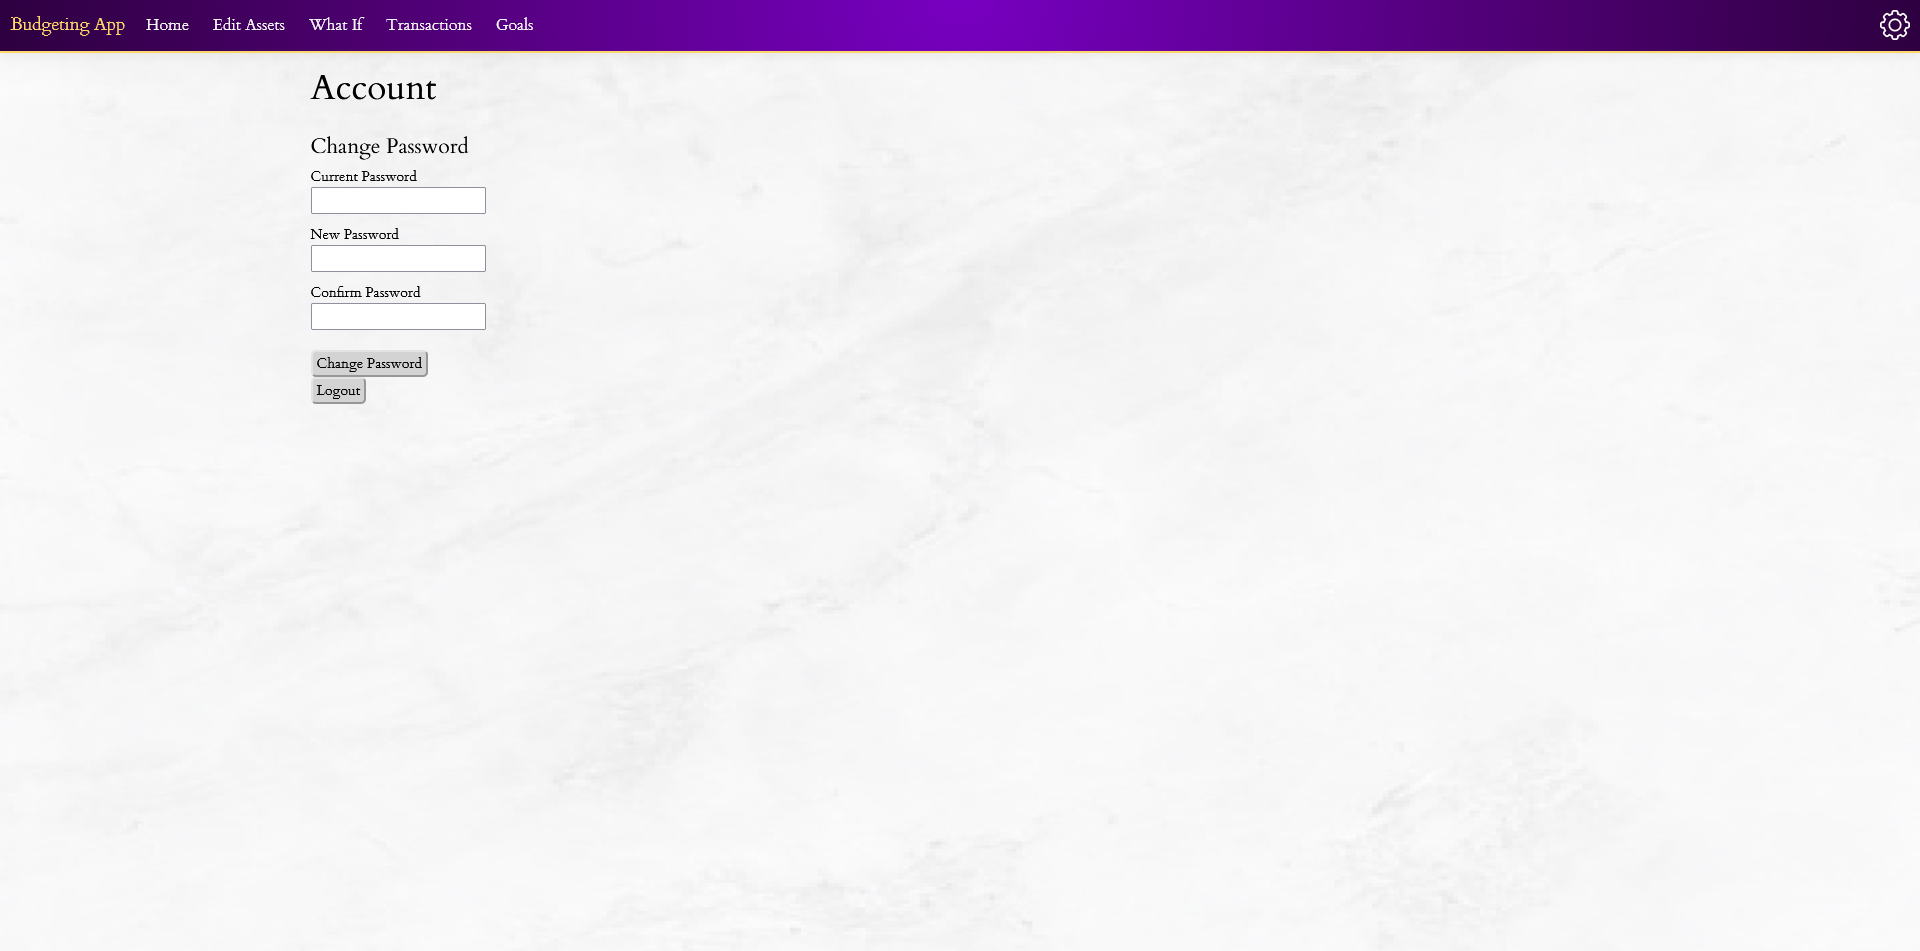
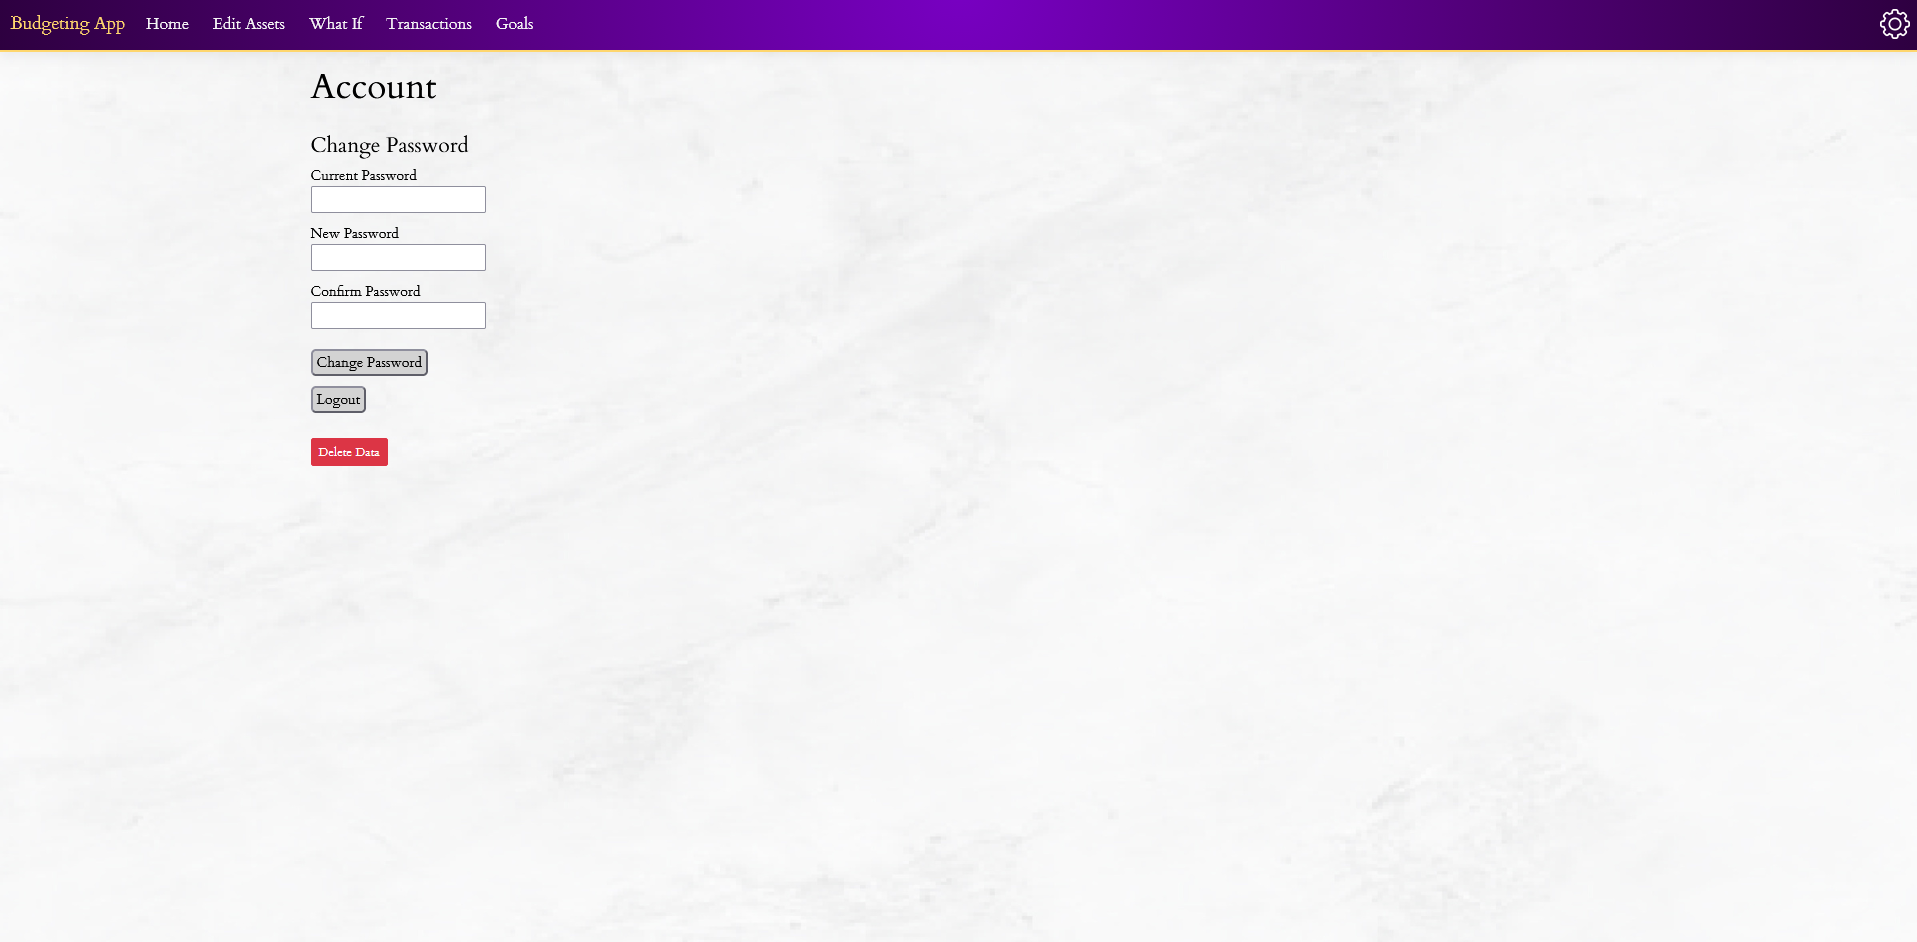
Add "Delete Data" option to Settings.cshtml

diff --git a/BudgetingApp/wwwroot/css/site.css b/BudgetingApp/wwwroot/css/site.css
@@ -388,3 +388,66 @@ body {
     height: 350px;
     width: 750px;
 }
+
+.warning-button {
+    background-color: red;
+}
+
+.logout-container {
+    padding-top: 10px;
+}
+
+.delete-buttons-container {
+    padding-top: 25px;
+}
+
+.modal {
+    display: none;
+    position: fixed;
+    z-index: 9999;
+    left: 0;
+    top: 0;
+    width: 100vw; 
+    height: 100vh; 
+    background-color: rgba(0, 0, 0, 0.6) !important; 
+    overflow: hidden; 
+}
+.modal-content {
+    background-color: white;
+    position: relative;
+    top: 50%; 
+    left: 50%; 
+    transform: translate(-50%, -50%); 
+    padding: 30px;
+    border: 1px solid #888;
+    width: 90%;
+    max-width: 500px; 
+    border-radius: 12px;
+    box-shadow: 0 0 15px #fed66d;
+    display: flex;
+}
+
+.close {
+    color: #aaa;
+    float: right;
+    font-size: 28px;
+    font-weight: bold;
+}
+
+    .close:hover, .close:focus {
+        color: black;
+        text-decoration: none;
+        cursor: pointer;
+    }
+
+.modal-text {
+    text-align: center;
+    font-weight: bold;
+}
+
+.modal-buttons-container {
+    display: flex;
+    gap: 150px;
+    justify-content: center
+}
+

diff --git a/BudgetingApp/Controllers/HomeController.cs b/BudgetingApp/Controllers/HomeController.cs
@@ -796,5 +796,77 @@ namespace BudgetingApp.Controllers
 
             return RedirectToAction("Goals");
         }
+
+        /// <summary>
+        /// Batch deletes all of the user's transactions and goals and resets all of their expenses to 0
+        /// </summary>
+        /// <returns>The Settings view</returns>
+        [HttpPost]
+        public async Task<IActionResult> DeleteData()
+        {
+            // Determine who is currently logged in
+            string currentUser = HttpContext.Session.GetString("Username");
+
+            // Redirect to the login page if the user is not signed in
+            if (string.IsNullOrEmpty(currentUser))
+                return RedirectToAction("Login", "Auth");
+
+            // Attempt to delete data
+            try
+            {
+                WriteBatch batch = _firestoreDb.StartBatch();
+
+                // Get and delete all transactions
+                Query transQuery = _firestoreDb.Collection(_transactionsCollection).WhereEqualTo("username", currentUser);
+                QuerySnapshot transSnapshot = await transQuery.GetSnapshotAsync();
+                foreach (DocumentSnapshot doc in transSnapshot.Documents)
+                {
+                    batch.Delete(doc.Reference);
+                }
+
+                // Get and delete all goals
+                Query goalQuery = _firestoreDb.Collection(_goalsCollection).WhereEqualTo("username", currentUser);
+                QuerySnapshot goalSnapshot = await goalQuery.GetSnapshotAsync();
+                foreach (DocumentSnapshot doc in goalSnapshot.Documents)
+                {
+                    batch.Delete(doc.Reference);
+                }
+
+                Query assetQuery = _firestoreDb.Collection(_assetsCollection).WhereEqualTo("username", currentUser).Limit(1);
+                QuerySnapshot assetSnapshot = await assetQuery.GetSnapshotAsync();
+
+                var assetDoc = assetSnapshot.Documents.FirstOrDefault();
+                if (assetDoc != null)
+                {
+                    // Set all expenses data back to 0
+                    var resetValues = new Dictionary<string, object>
+                    {
+                        { "balance", 0.0 },
+                        { "income", 0.0 },
+                        { "savings", 0.0 },
+                        { "rent", 0.0 },
+                        { "utilities", 0.0 },
+                        { "carPayment", 0.0 },
+                        { "insurances", 0.0 },
+                        { "groceries", 0.0 },
+                        { "gas", 0.0 },
+                        { "subscriptions", 0.0 },
+                        { "other", 0.0 }
+                    };
+                    batch.Update(assetDoc.Reference, resetValues);
+                }
+
+                await batch.CommitAsync();
+
+                TempData["SuccessMessage"] = "Account reset successfully. All history and expenses have been cleared.";
+            }
+            catch (Exception ex)
+            {
+                _logger.LogError($"Full data wipe failed for {currentUser}: {ex.Message}");
+                TempData["ErrorMessage"] = "A database error occurred. Some data may not have been deleted.";
+            }
+
+            return RedirectToAction("Settings");
+        }
     }
 }
